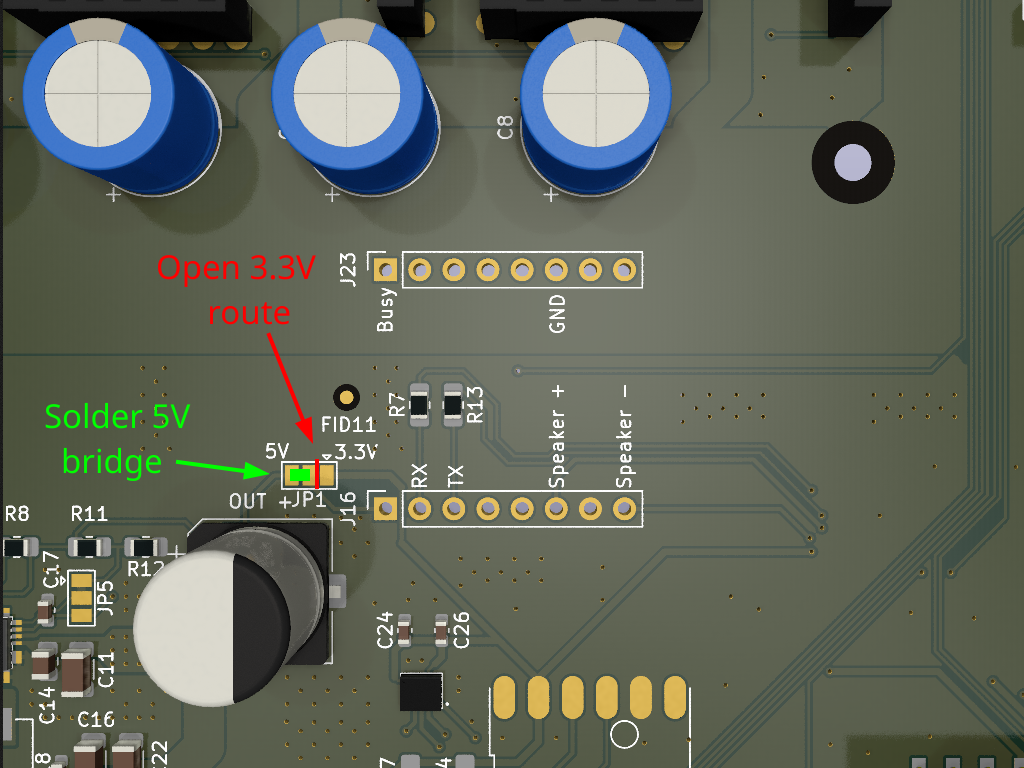
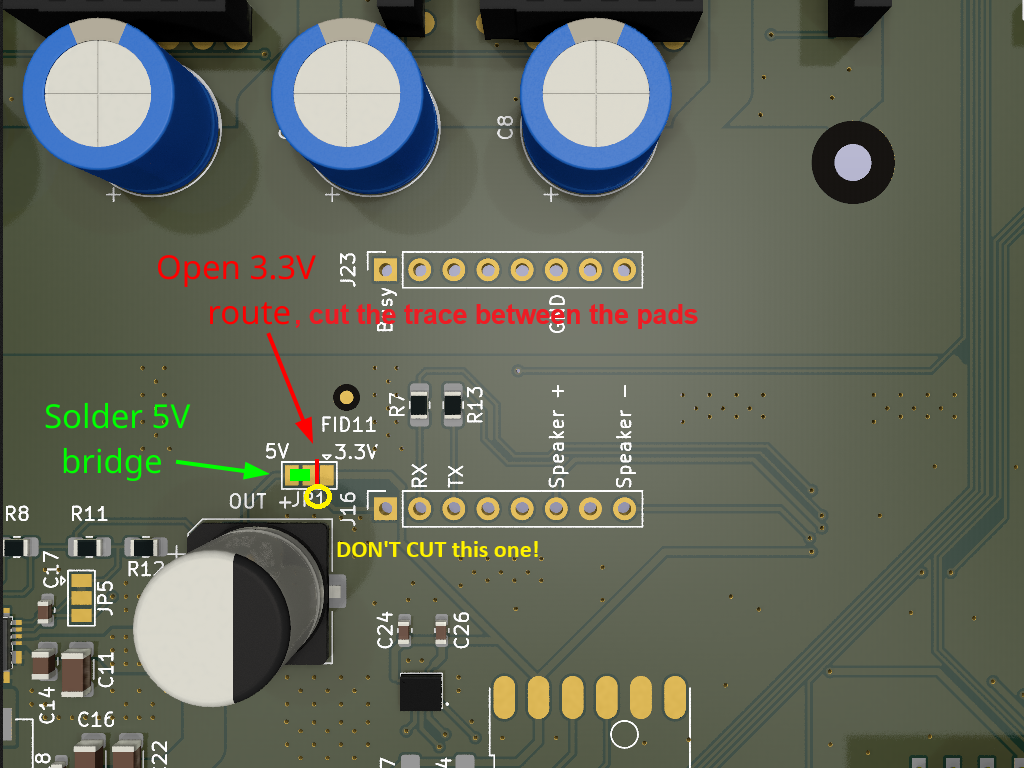
warning for cutting the trace on JP1 (#45)
* warning for cutting the trace on JP1

* snd: more instruction for 5V change

Changed region(s): [[0.2812, 0.375, 0.6875, 0.4375], [0.3125, 0.6875, 0.5312, 0.75], [0.2812, 0.625, 0.3438, 0.6562]]

diff --git a/content/en/docs/robot-assembly/prepare-the-parts/prepare-sound/_index.md b/content/en/docs/robot-assembly/prepare-the-parts/prepare-sound/_index.md
@@ -32,6 +32,8 @@ All mainboard version &le; 0.13.x supply the DFPlayer with 3.3V by default.
 But for full sound support, it's highly advised to change this to 5V, otherwise you might risk your Pico's PMIC 💣. More technical details here: [Sound-Readme](https://github.com/ClemensElflein/OpenMower/blob/main/Firmware/LowLevel/README-Sound%2C%20DFPIS5V.md)<br>
 <img title="Required 1kΩ R7 & R13" src="mainboard-013x-snd-change5v.png" width="200">
 
+**Don't forget to cut the trace between middle and 3.3v! It's there, even if it's barely visible!** (if you forgot, you'll bridge the 3v3 with 5V resulting in incorrect battery voltage reporting)
+
 Once changed, you're save to enable full sound support via `OM_DFP_IS_5V=True` [mower_config](../prepare-sd-card/#openmowermower_configtxt-on-linux-bootopenmowermower_configtxt) switch.
 
 
